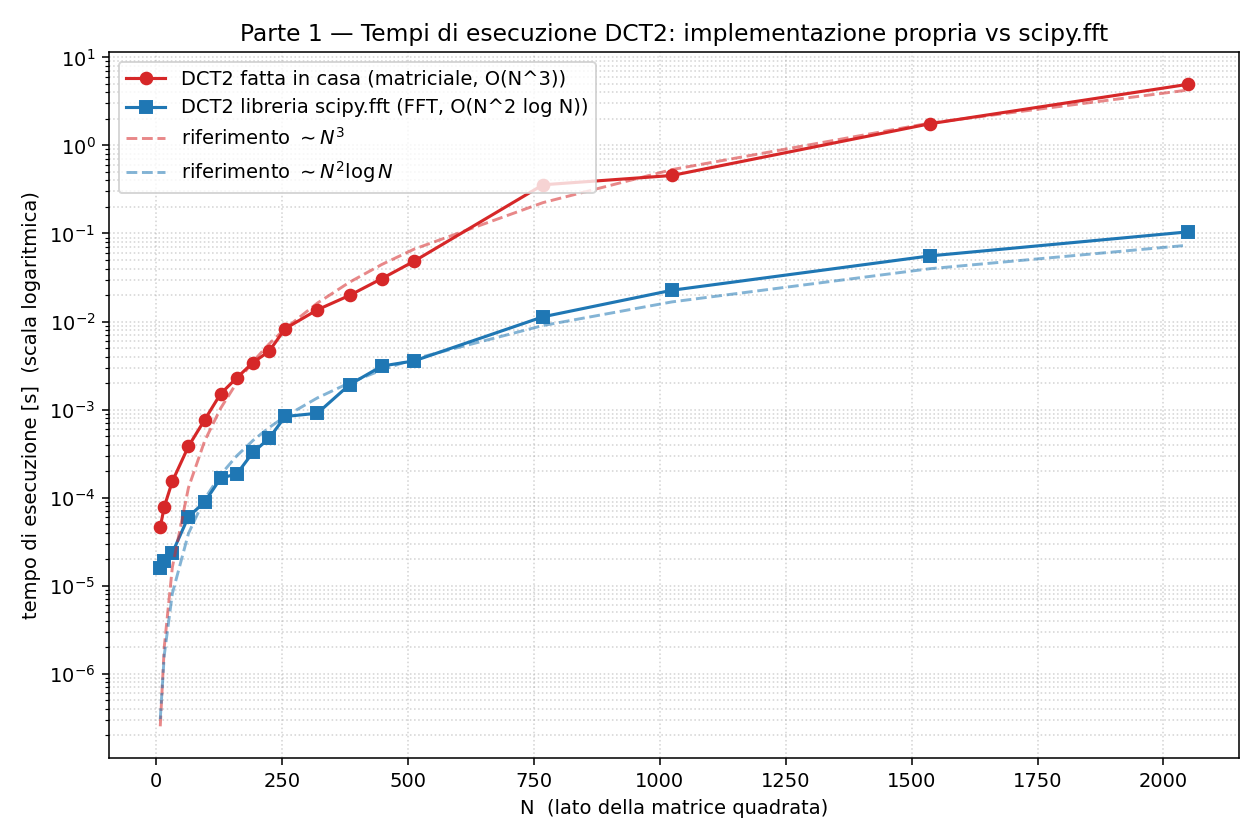
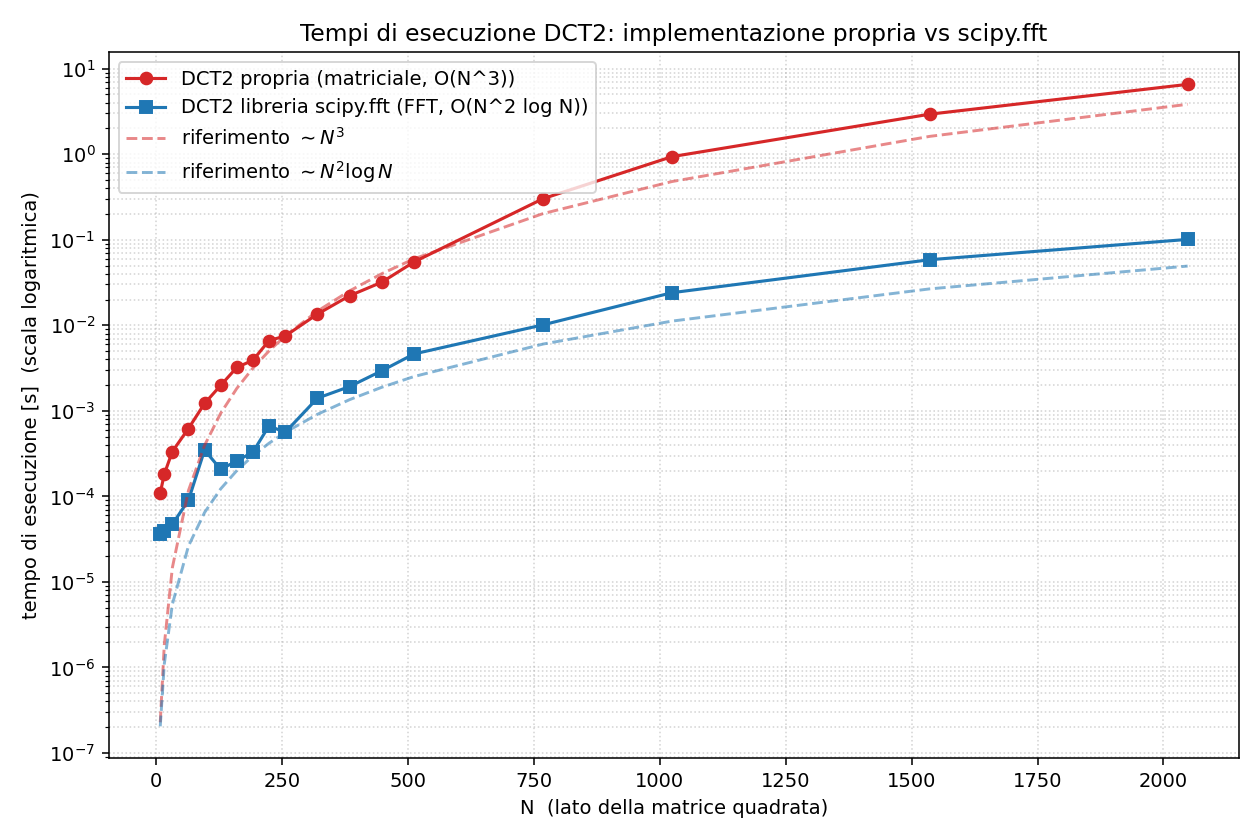
Update new results

diff --git a/confronto_tempi.py b/confronto_tempi.py
@@ -15,11 +15,12 @@ Output:
 
 import time
 import csv
+import pathlib
 
 import numpy as np
 import matplotlib.pyplot as plt
 from scipy.fft import dct
-
+from pathlib import Path
 from dct_custom import dct_2D as dct2_custom
 
 # DCT2 della libreria: scipy.fft.dct e' la versione FFT-based.
@@ -71,6 +72,11 @@ def main():
         print(f"{N:>6} | {t_custom:>12.4e} | {t_scipy:>12.4e} | "
               f"{t_custom / t_scipy:>9.1f}x")
 
+    percorso_csv = Path('Results/times.csv')
+
+    # Crea la cartella 'Results' (e le eventuali cartelle padre) se non esiste
+    percorso_csv.parent.mkdir(parents=True, exist_ok=True)
+
     # Salvataggio CSV
     with open('Results/times.csv', 'w', newline='') as f:
         w = csv.writer(f)
@@ -98,7 +104,7 @@ def main():
                 (Ns_s[is_] ** 2 * np.log(Ns_s[is_])))
 
     plt.figure(figsize=(9, 6))
-    plt.semilogy(Ns_c, Tc,  'o-', label='DCT2 fatta in casa (matriciale, O(N^3))',
+    plt.semilogy(Ns_c, Tc,  'o-', label='DCT2 propria (matriciale, O(N^3))',
                  color='C3', markersize=6, linewidth=1.6)
     plt.semilogy(Ns_s, Ts,  's-', label='DCT2 libreria scipy.fft (FFT, O(N^2 log N))',
                  color='C0', markersize=6, linewidth=1.6)
@@ -107,12 +113,16 @@ def main():
 
     plt.xlabel('N  (lato della matrice quadrata)')
     plt.ylabel('tempo di esecuzione [s]  (scala logaritmica)')
-    plt.title('Parte 1 — Tempi di esecuzione DCT2: implementazione propria vs scipy.fft')
+    plt.title('Tempi di esecuzione DCT2: implementazione propria vs scipy.fft')
     plt.grid(True, which='both', linestyle=':', alpha=0.55)
     plt.legend(loc='upper left')
     plt.tight_layout()
-    plt.savefig('Plots/times.png', dpi=140)
-    print("\nGrafico salvato in 'times.png'")
+    # Creazione sicura della cartella e salvataggio
+    percorso_plot = Path('Plots/times.png')
+    percorso_plot.parent.mkdir(parents=True, exist_ok=True)
+    plt.savefig(percorso_plot, dpi=140)
+
+    print(f"\nGrafico salvato in '{percorso_plot}'")
     print("Dati salvati  in 'times.csv'")
 
 